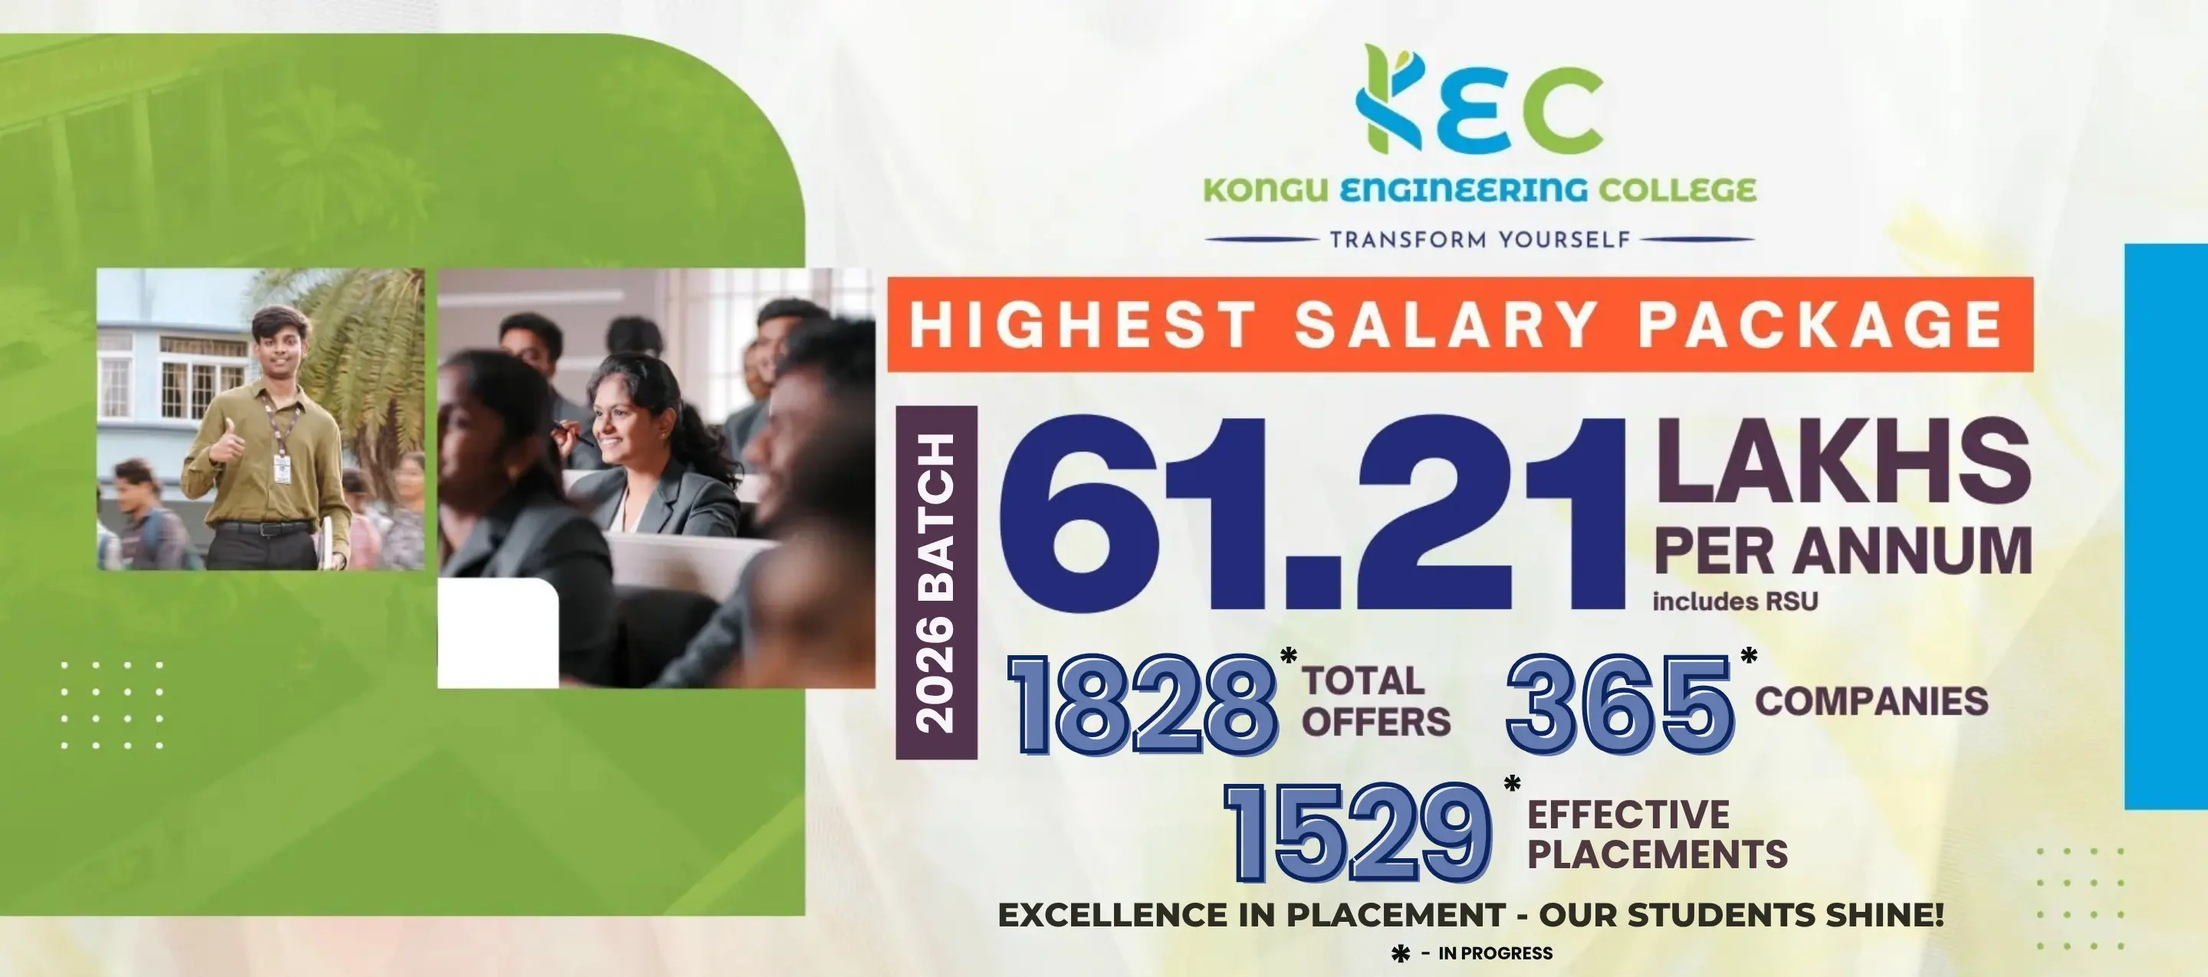
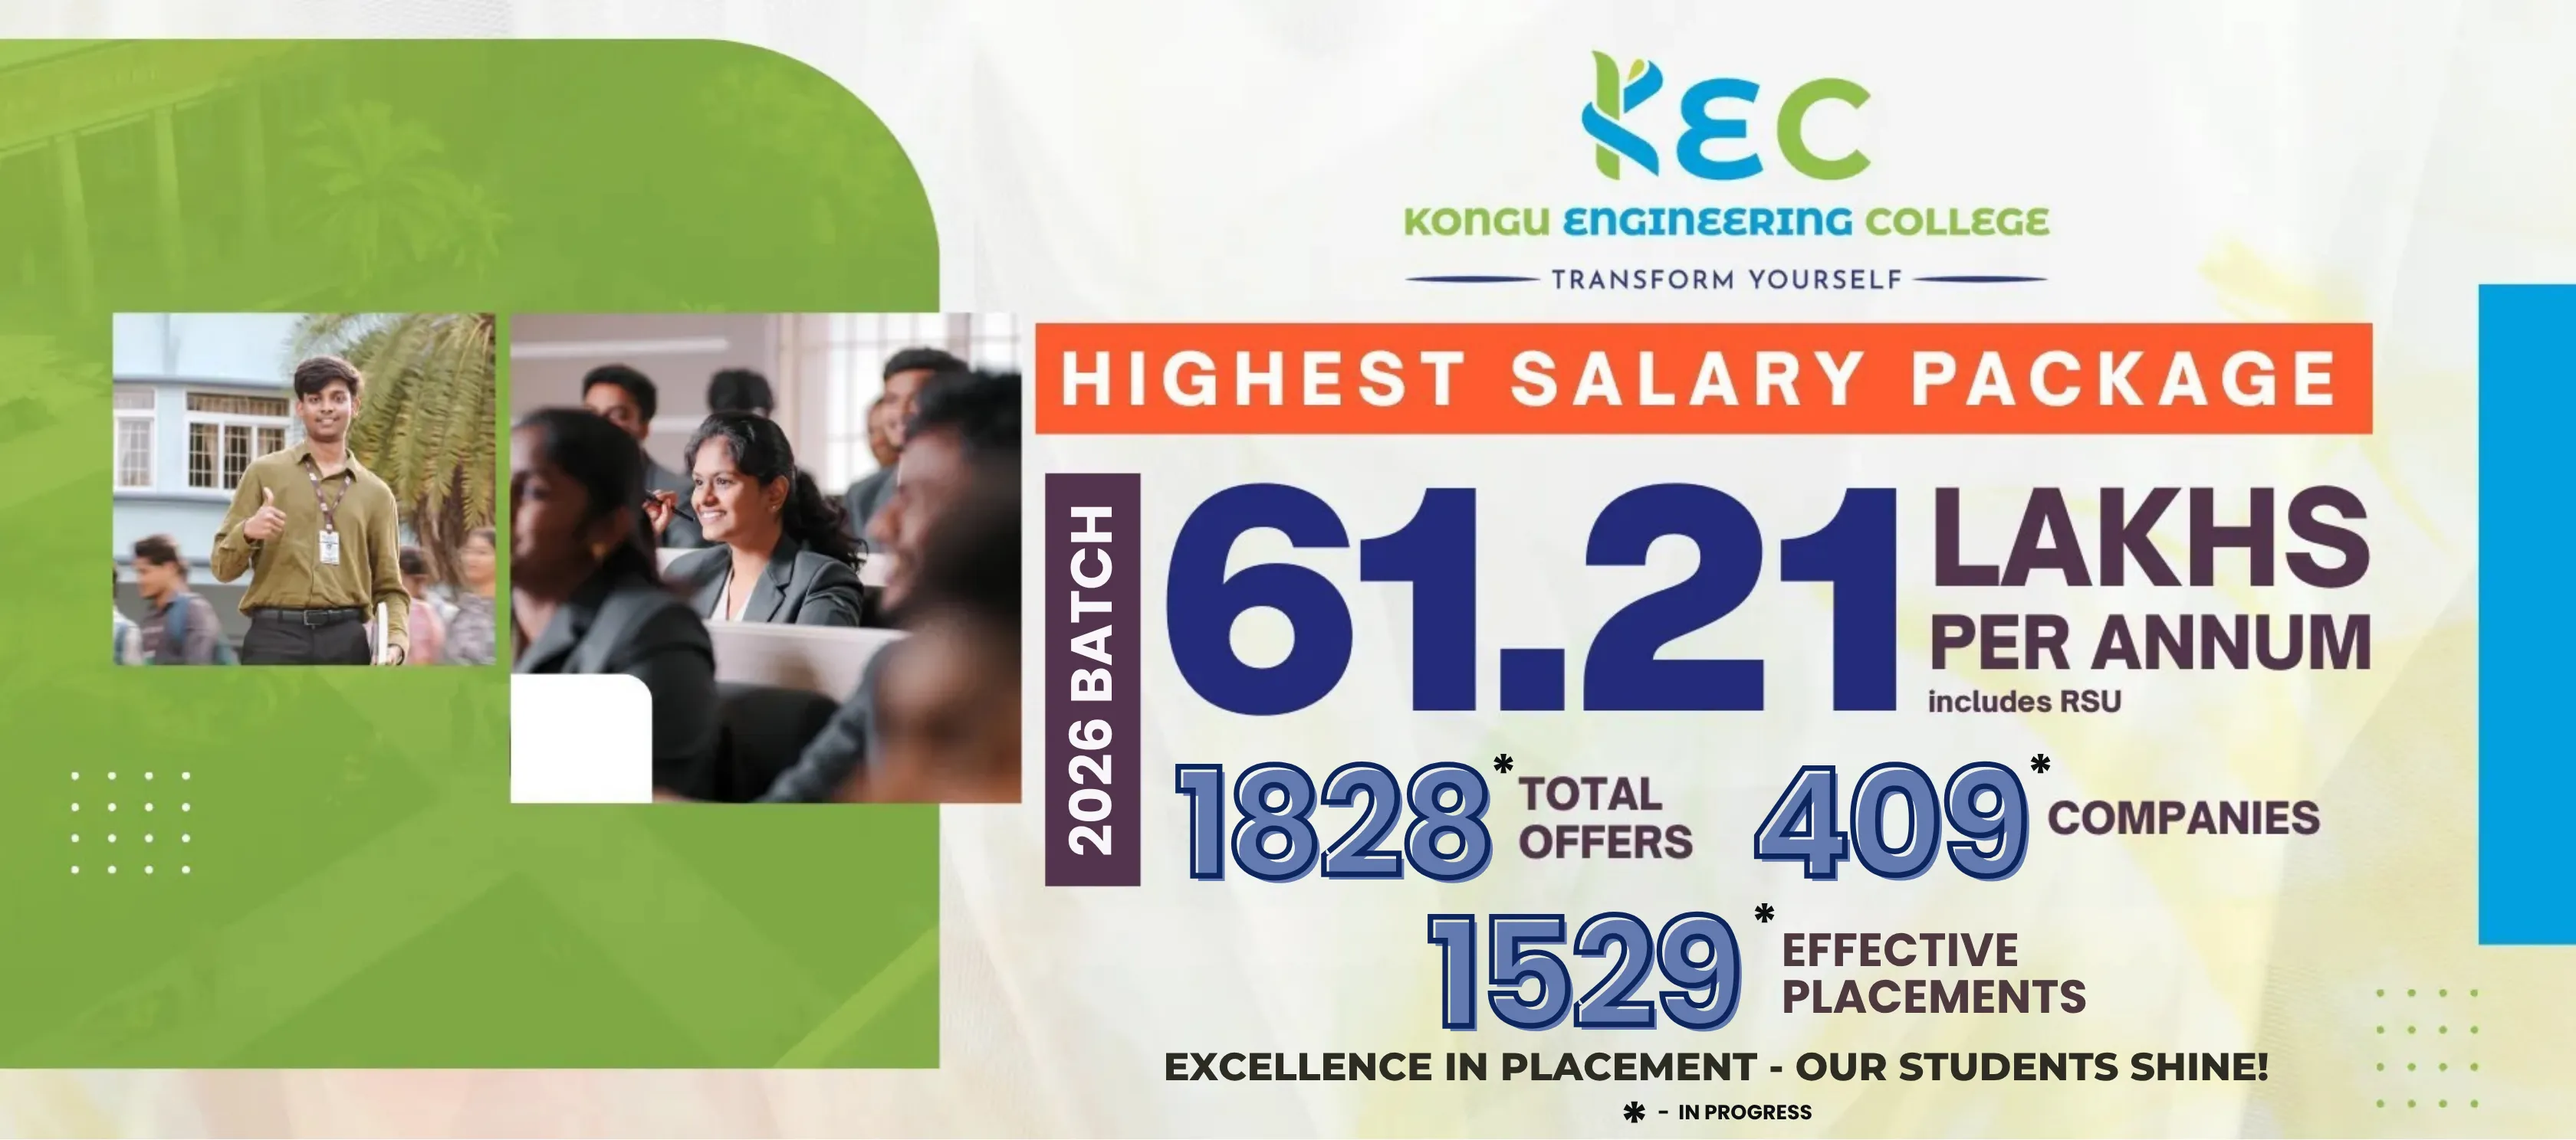
placement updated

diff --git a/src/components/HomePage/ExcellenceInPlacements/ExcellenceInPlacements.jsx b/src/components/HomePage/ExcellenceInPlacements/ExcellenceInPlacements.jsx
@@ -20,11 +20,11 @@ function ExcellenceInPlacements() {
         </p>
 
         <div className="eip-stats-grid">
-          <StatCard value="1784" label="Offers received" />
+          <StatCard value="1828" label="Offers received" />
           <StatCard value="5.6 LPA" label="Average Salary" />
           <StatCard value="172" label="Above 8 LPA" />
           <StatCard value="61.21 LPA" label="Highest salary" />
-          <StatCard value="355" label="Companies Visited" />
+          <StatCard value="409" label="Companies Visited" />
           <StatCard value="94.1%" label="Placement Status" />
         </div>
 

diff --git a/src/components/ExtraPages/PlacementSection/Placement.jsx b/src/components/ExtraPages/PlacementSection/Placement.jsx
@@ -420,7 +420,7 @@ const Placement = () => {
                 <img src={card1} alt="Companies Visited Icon" />
               </div>
 
-              <div className="Placement-stat-valu">365</div>
+              <div className="Placement-stat-valu">409</div>
             </div>
 
             <div className="ps-stat-card blue center">
